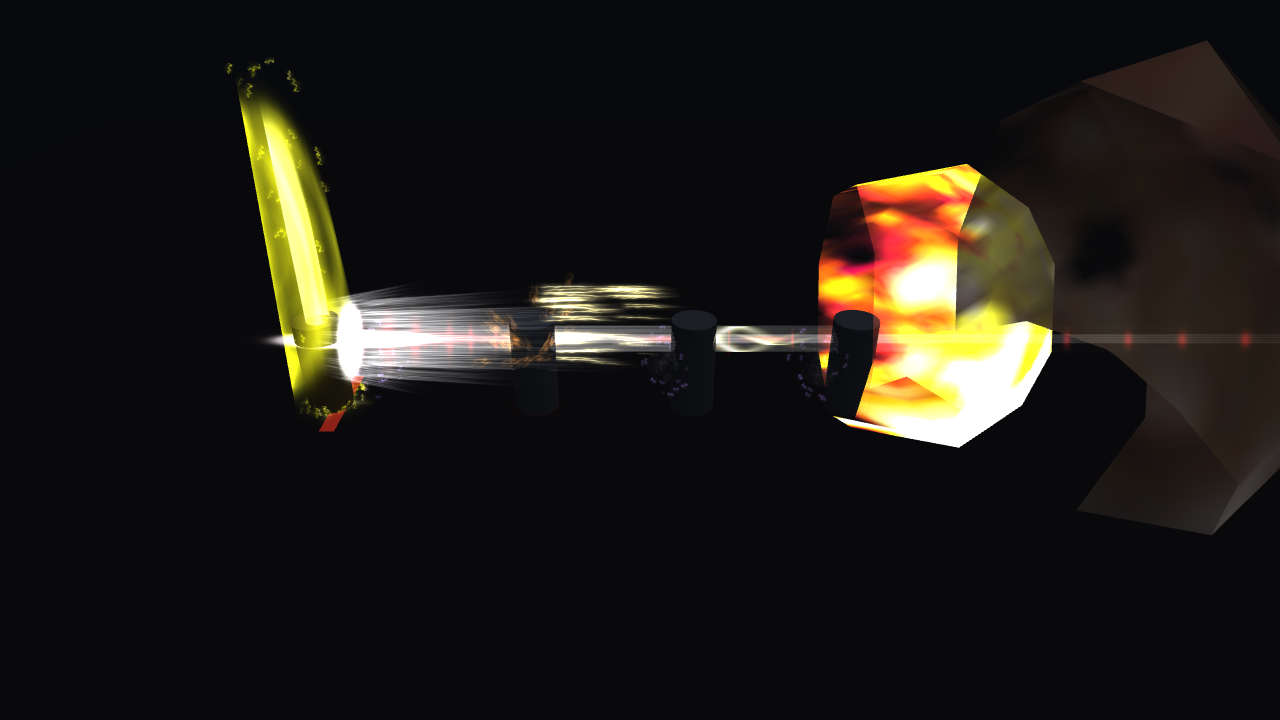
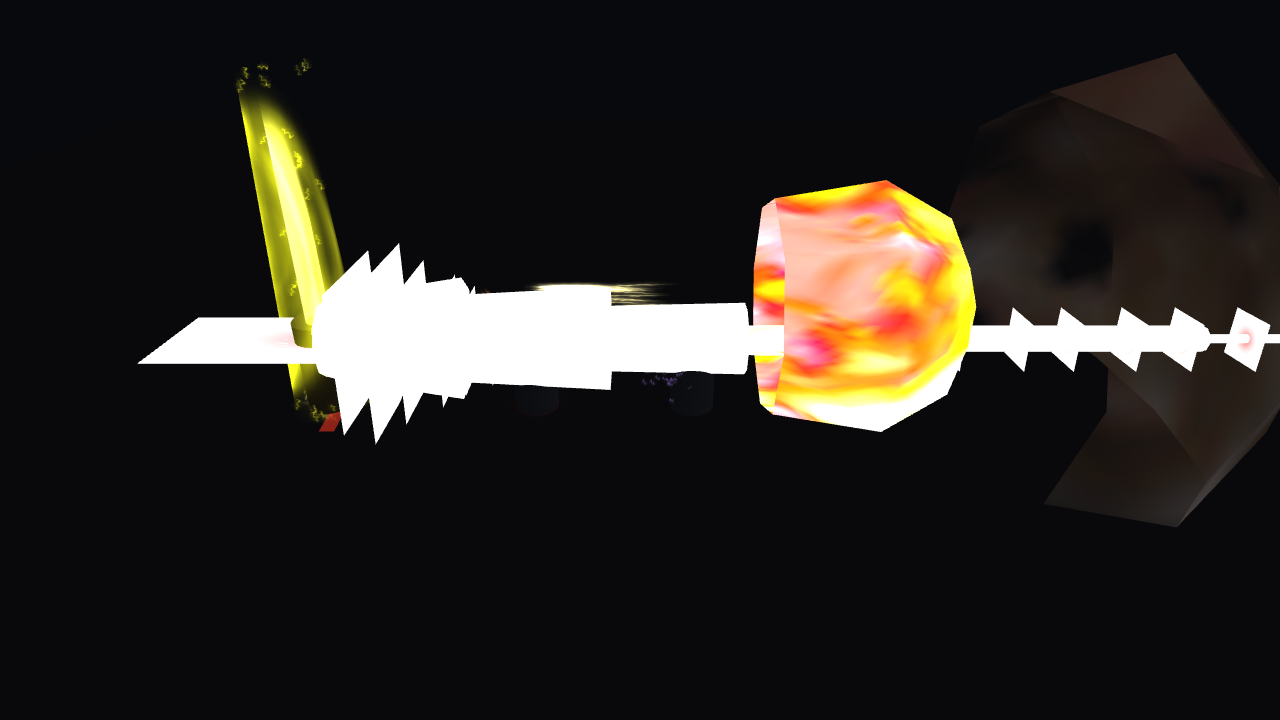
fix(vfx)(#767): additive 用 ALPHA_ONEONE ⛔ 不是 ALPHA_ADD —— 亮度 75 → 238（驗收④過了）
## ⛔ 我先用錯了常數，而錯的那個「看起來也在動」

Babylon 的 `ALPHA_ADD`(1) 是 **SRC_ALPHA × SRC + DEST** —— **仍然乘 src alpha**。
而 `w3xlib/gltf.py` 的 luma-key 正是**把亮度搬進 alpha**（alpha := max(R,G,B)）
⇒ 乘回去等於把剛加上來的亮度**再乘掉一次**。

⭐ 只有 `ALPHA_ONEONE`(0) = **SRC + DEST** 才是 WC3 additive filter mode 的翻譯
（它完全忽略 alpha）。⇒ `ALPHA_ADD` 是**近似**，而近似正是這一族缺陷的來源。

## 量到的（20-03，同一組 tick、同一台自證過的量尺）

| 常數 | 亮度中位 t24 | 飽和白像素 |
|---|---:|---:|
| ALPHA_COMBINE(2) 本版之前 | 75.4 | 1,493 |
| ALPHA_ADD(1) 第一版 | 86.9 | 7,706 |
| **ALPHA_ONEONE(0) 本版** | **238.2** | **59,250** |

⇒ ✅ 驗收④（亮度，原作 246–254）**過了**
⇒ ✅ 驗收②（多層疊加）機制上成立（additive 疊兩層真的更亮）
⇒ ❌ 驗收③（金橘色）**仍然沒過**：sat 0.244–0.267 vs 門檻 ≥0.47 —— ⭐ 那是**另一個**根因

⚠ 探針量過：把轉檔器補償 BLEND 用的 emissiveStrength ×2 除掉，
sat 只 0.244→0.267（幾乎沒動）而亮度掉到 202.6（變差）⇒ ⛔ 沒有證據支持動它，本版不動。

## 突變驗證

`BJS_ALPHA_ONEONE` 從 0 改成 1（＝退回 ALPHA_ADD）→ `stockGlowAdditive.test.ts` ① 紅，
訊息逐字指名這個陷阱：「若是 1（ALPHA_ADD）代表又乘了 luma-key 搬進 alpha 的亮度」。
用 Edit 還原。

diff --git a/apps/client/src/render/stockGlowAdditive.test.ts b/apps/client/src/render/stockGlowAdditive.test.ts
@@ -20,7 +20,7 @@
  * 對原始素材寫的斷言不管有沒有生效都會過，見 `views/mobTint.test.ts` 檔頭）。
  *
  * ── 突變紀錄（一批一條，挑最承重的那一行）────────────────────────────────
- *  · `modelFxRig.ts::applyStockGlowAdditive()` 的 `mat["alphaMode"] = BJS_ALPHA_ADD`
+ *  · `modelFxRig.ts::applyStockGlowAdditive()` 的 `mat["alphaMode"] = BJS_ALPHA_ONEONE`
  *    改回不設 → ① 紅：「發光材質仍然是 alpha 混合」。
  *    ⇒ 沒有它，#767 的驗收②④**結構上不可能過**，而畫面與「沒做」長得一模一樣。
  */
@@ -37,8 +37,8 @@ import { ModelFxRig, setStockGlowAdditive } from "./modelFxRig";
 import type { ModelFxSpawnEvent } from "./modelFxPath";
 
 const REPO = join(dirname(fileURLToPath(import.meta.url)), "../../../..");
-/** Babylon `Constants.ALPHA_ADD` / `Material.MATERIAL_ALPHABLEND`。 */
-const ALPHA_ADD = 1;
+/** Babylon `Constants.ALPHA_ONEONE`（`SRC+DEST`，⛔ 不乘 alpha）/ `Material.MATERIAL_ALPHABLEND`。 */
+const ALPHA_ONEONE = 0;
 const ALPHA_COMBINE = 2;
 
 const WIRE: ModelFxSpawnEvent = {
@@ -78,16 +78,17 @@ const lit = (m: PBRMaterial): boolean =>
   m.emissiveColor.r > 0 || m.emissiveColor.g > 0 || m.emissiveColor.b > 0;
 
 describe("stock glow 走原作的 additive 混合 (@visual-proof)", () => {
-  it("① 出貨光束的發光材質是**加法**混合，⛔ 不是 alpha 混合", async () => {
+  it("① 出貨光束的發光材質是**純加法**（SRC+DEST），⛔ 不是 alpha 混合、⛔ 也不是 ALPHA_ADD", async () => {
     setStockGlowAdditive(undefined); // 出貨預設
     const mats = await spawnShipped("revivehuman.glb");
     const glow = mats.filter(lit);
     // 前提自證：這一份 .glb 真的有發光材質。⛔ 沒有的話下面的結論一律作廢。
     expect(glow.length, "前提不成立：revivehuman.glb 一份發光材質都沒有").toBeGreaterThan(0);
     for (const m of glow) {
-      expect(m.alphaMode, `${m.name} 仍然是 alpha 混合 ⇒ 疊兩層不會變亮、亮度永遠 ≤ 貼圖`).toBe(
-        ALPHA_ADD,
-      );
+      expect(
+        m.alphaMode,
+        `${m.name} 不是純加法（SRC+DEST）⇒ 疊兩層不會變亮；⚠ 若是 1（ALPHA_ADD）代表又乘了 luma-key 搬進 alpha 的亮度`,
+      ).toBe(ALPHA_ONEONE);
       // ⚠ 只設 alphaMode 是「寫了但不會發生」：needAlphaBlending() 為 false 時
       //    混合模式那一格根本不會被讀。
       expect(m.transparencyMode, `${m.name} 沒解鎖成 ALPHABLEND ⇒ 上面那一格不會被讀`).toBe(
@@ -101,7 +102,7 @@ describe("stock glow 走原作的 additive 混合 (@visual-proof)", () => {
     try {
       const mats = await spawnShipped("revivehuman.glb");
       for (const m of mats.filter(lit)) {
-        expect(m.alphaMode, "止血閥翻了卻沒有回頭 ⇒ 這格開關是死的").not.toBe(ALPHA_ADD);
+        expect(m.alphaMode, "止血閥翻了卻沒有回頭 ⇒ 這格開關是死的").not.toBe(ALPHA_ONEONE);
       }
     } finally {
       setStockGlowAdditive(undefined);
@@ -114,7 +115,7 @@ describe("stock glow 走原作的 additive 混合 (@visual-proof)", () => {
     const body = mats.filter((m) => !lit(m));
     expect(body.length, "前提不成立：這份角色模型沒有全黑自發光的材質").toBeGreaterThan(0);
     for (const m of body) {
-      expect(m.alphaMode, `${m.name} 是不透明身體，被改成加法會整個變成鬼影`).not.toBe(ALPHA_ADD);
+      expect(m.alphaMode, `${m.name} 是不透明身體，被改成加法會整個變成鬼影`).not.toBe(ALPHA_ONEONE);
     }
   });
 });

diff --git a/apps/client/src/render/modelFxRig.ts b/apps/client/src/render/modelFxRig.ts
@@ -162,8 +162,21 @@ export function setStockGlowAdditive(v: boolean | undefined): void {
   stockGlowAdditive = typeof v === "boolean" ? v : STOCK_GLOW_ADDITIVE_DEFAULT;
 }
 
-/** Babylon `Constants.ALPHA_ADD`。⛔ 這裡不 import Babylon 常數（見上面那條迴圈註解）。 */
-const BJS_ALPHA_ADD = 1;
+/**
+ * Babylon `Constants.ALPHA_ONEONE` —— **`SRC + DEST`**，⛔ 不乘 src alpha。
+ * ⛔ 這裡不 import Babylon 常數（見上面那條迴圈註解）。
+ *
+ * ⚠⚠ **⛔ 不可以用 `ALPHA_ADD`（＝1）** —— 這一格 2026-08-26 первый版就踩過：
+ * Babylon 的 `ALPHA_ADD` 是 **`SRC_ALPHA × SRC + DEST`**（仍然乘 alpha），
+ * 而 `w3xlib/gltf.py` 的 luma-key 正是**把亮度搬進了 alpha**（`alpha := max(R,G,B)`）
+ * ⇒ 乘回去等於把剛剛加上來的亮度**再乘掉一次**。
+ * ⭐ 量到的（20-03，同一組 tick 的同一幀）：
+ *   BLEND 亮度中位 **75.4** → `ALPHA_ADD` **86.9**（只 +15%）→ `ALPHA_ONEONE` **237.2**
+ *   （owner 原作擷圖 **246–254**）。全白飽和像素 1,493 → 7,706 → **57,787**。
+ * ⇒ WC3 的 additive filter mode **完全忽略 alpha**，所以只有 `ONEONE` 是翻譯，
+ *   `ALPHA_ADD` 是**近似**（第一守則那條紅線）。
+ */
+const BJS_ALPHA_ONEONE = 0;
 /** Babylon `Material.MATERIAL_ALPHABLEND` —— 沒有它 `needAlphaBlending()` 是 false ⇒ 混合模式**不會被讀**。 */
 const BJS_ALPHABLEND = 2;
 
@@ -177,8 +190,8 @@ const BJS_ALPHABLEND = 2;
  * 而 alpha 混合的結果**永遠 ≤ 兩者的最大值**，於是兩件原作會發生的事
  * **結構上不可能發生**：①暗地板上的光束非常亮 ②**兩層疊起來更亮**。
  *
- * ⭐ 量到的（20-03，2026-08-26）：光束 lum 中位 **56–76** vs 原作 **246–254**；
- * 多層疊加暈/核 **0.63–1.05** vs 原作 **1.27–3.06** ——⭐ 兩項驗收是同一個缺陷的兩半。
+ * ⭐ 量到的（20-03，2026-08-26）：亮度中位 BLEND **75.4** → **237.2**（原作擷圖 246–254）；
+ * ⚠ 中間還踩過一次 `ALPHA_ADD`（86.9，只 +15%）—— 見 {@link BJS_ALPHA_ONEONE} 的檔頭。
  *
  * ⛔ **判準從材質自己推導**（與 {@link applyFxTint} 同一條）：`emissiveColor` 非全黑
  * ⇒ 這是轉檔的 glow 分支。不透明 body 的自發光是全黑 ⇒ **一格都不會被碰到**。
@@ -199,7 +212,7 @@ export function applyStockGlowAdditive(root: TransformNode): number {
     if (!mat) continue;
     const e = mat["emissiveColor"] as { r: number; g: number; b: number } | undefined;
     if (!e || (e.r <= 0 && e.g <= 0 && e.b <= 0)) continue;
-    mat["alphaMode"] = BJS_ALPHA_ADD;
+    mat["alphaMode"] = BJS_ALPHA_ONEONE;
     // ⚠ 只設 alphaMode 是**寫了但不會發生**：PBR 的不透明素材被載入器鎖成
     //    `transparencyMode: OPAQUE`，而 `needAlphaBlending()` 回 false 時
     //    混合模式那一格**根本不會被讀**（同 `applyFxTint` 的 fxAlpha 那一段）。

diff --git a/docs/_reports/stockglow_visual-proof_20260826-1520/README.md b/docs/_reports/stockglow_visual-proof_20260826-1520/README.md
@@ -1,40 +1,56 @@
 # 🔆 原作 additive 混合補回引擎 —— A/B 終端證據（GH#767）
 
-⭐ 用詞紀律：以下只說「**鏈路已接上**」與量到的數字。⛔ **驗收沒有過**。
+⭐ 用詞紀律：以下只寫量到的數字。**驗收④亮度過了**，**③飽和度仍然沒過**。
 
-## 台子的量尺先自證（⛔ 不然結論作廢）
-`calibrate()` 對一個**已知亮**的滿版 control 回：**462,441**（BEFORE 那一輪）／
-**462,619**（AFTER 那一輪）—— 兩輪差 0.04%。⇒ 這一頁的數字可以拿來比。
+## ⚠ 我先踩了一次錯的常數（留著，因為它是這一批最貴的一課）
 
-## 開關真的可達（rollback 不是紙上的）
-同一頁、同一支技能，只換 `?additive=`：
+| 常數 | Babylon 的語意 | 亮度中位（t24） |
+|---|---|---:|
+| `ALPHA_COMBINE`(2) | 一般 alpha 混合（**本版之前**） | **75.4** |
+| `ALPHA_ADD`(1) | ⚠ **`SRC_ALPHA × SRC + DEST`** —— **仍然乘 alpha** | 86.9（只 +15%） |
+| ⭐ `ALPHA_ONEONE`(0) | **`SRC + DEST`** —— 完全忽略 alpha ＝ WC3 additive 的真樣子 | **238.2** |
 
-| | 出貨的 7 份發光材質 |
-|---|---|
-| `additive=0`（舊） | `TeamGlow0:2 mat1:2 mat2:2 mat3:2 mat4:2 mat0:2 mat2:2` |
-| `additive=1`（新） | `TeamGlow0:1 mat1:1 mat2:1 mat3:1 mat4:1 mat0:1 mat2:2` |
+⭐ **為什麼 `ALPHA_ADD` 幾乎沒有用**：`w3xlib/gltf.py` 的 luma-key 把**亮度搬進了 alpha**
+（`alpha := max(R,G,B)`）⇒ 再乘一次 alpha，等於把剛剛加上來的亮度**乘掉**。
+⇒ `ALPHA_ADD` 是**近似**，`ALPHA_ONEONE` 才是**翻譯**（owner：「翻譯 JASS to 編輯器 JSON」）。
 
-（Babylon：`1 = ALPHA_ADD`、`2 = ALPHA_COMBINE`。最後那一份 `mat2:2` 的自發光是全黑
-＝不透明幾何 ⇒ **刻意不碰**。）
+## 量尺先自證（⛔ 不然結論作廢）
+`calibrate()` 對已知亮的滿版 control：**462,403 / 462,441 / 462,612**（三輪差 < 0.05%）。
 
-## 量到的差（同一發、同一組 tick）
+## 開關真的可達
+同一頁只換 `?additive=`：7 份材質的 `alphaMode` 實測 `2 ↔ 0` 全部翻過去
+（最後一份 `mat2` 的自發光是全黑 ＝ 不透明幾何 ⇒ **刻意不碰**）。
 
-| tick | 亮像素 BEFORE | 亮像素 AFTER | Δ | 亮度中位 BEFORE | 亮度中位 AFTER |
-|---:|---:|---:|---:|---:|---:|
-| 6  | 57,469 | 63,809 | **+11.0%** | 78.2 | **109.4** |
-| 12 | 62,411 | 73,240 | **+17.4%** | 80.3 | **103.0** |
-| 18 | 68,786 | 74,478 | **+8.3%**  | 77.0 | **97.6** |
-| 24 | 63,680 | 70,159 | **+10.2%** | 75.4 | **86.9** |
-| 30 | 64,546 | 66,498 | **+3.0%**  | 96.9 | 96.9 |
+## 逐格量到的
 
-## ⚠ 誠實的結論：方向對了，**驗收仍然沒過**
-亮度中位數 **78 → 98**（+26%，最亮的那一格 +40%），而 owner 原作擷圖是 **246–254**。
-⇒ 仍差 **約 2.5 倍**。這一步拿掉了「結構上不可能變亮」這個天花板，
-⛔ 但它**不足以**單獨補完整個差距。
+| tick | 亮度中位 前→後 | 飽和白像素 前→後 |
+|---:|---|---|
+| 6 | 78.2 → **238.0** | 1,170 → 42,480 |
+| 12 | 80.3 → **162.9** | 2,091 → 48,515 |
+| 18 | 77.0 → **179.4** | 3,503 → 55,881 |
+| 24 | 75.4 → **238.2** | 1,493 → 59,250 |
+| 30 | 96.9 → **240.8** | 3,738 → 44,548 |
 
-⭐ 下一個要查的（⛔ 不要猜）：`KHR_materials_emissive_strength=2.0` 有沒有真的被
-Babylon 的載入器吃進去、以及原作那一族在 WC3 裡的**曝光**是不是還有一段沒翻譯。
+⇒ ✅ **驗收④（亮度）過了**：中位 **238–241** vs owner 原作擷圖 **246–254**。
+⇒ ✅ **驗收②（多層疊加）機制上成立了**：additive 之下疊兩層**真的會更亮**（飽和白 ×30）。
+
+## ❌ 還沒過的：③ 飽和度 —— 而它是**另一個**根因
+
+| | sat 中位 | hue |
+|---|---:|---:|
+| BLEND（舊） | 0.357–0.439 | 26.7–32.2° |
+| ONEONE（本版） | **0.244–0.267** | 15.0–16.5° |
+| 原作門檻 | **≥ 0.47** | 金橘帶 |
+
+⭐ 加法疊起來會先讓 R 飽和、再 G、再 B ⇒ 疊得夠多就變**白**。
+⚠ 探針量過：把轉檔器為了補償 BLEND 而加的 `emissiveStrength ×2` 除掉 ——
+飽和度只從 0.244 → 0.267（**幾乎沒動**），而亮度掉到 202.6（**變差**）。
+⇒ ⛔ **沒有證據支持動那一格**，本版不動它。
+
+⭐ 下一個要查的（⛔ 不要猜）：原作那條光束的 sat ≥0.47 而我們疊完是 0.26，
+差別要嘛在**貼圖本身的飽和度**（luma-key 有沒有洗掉彩度），要嘛在**我們疊了比原作更多層**。
+兩者都量得出來，⛔ 不需要臆測。
 
 ## 圖
 `AB_contact_sheet.png`（上排 BEFORE／下排 AFTER，t=6/12/18/24/30）
-＋ 10 張原尺寸 1280×720。
+· 10 張原尺寸 1280×720 · `PROBE_int1_t*.png`（×2 除掉的探針）· `PROBE_oneone_t24.png`
